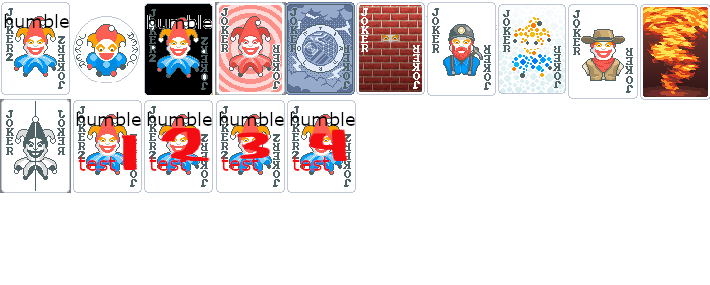
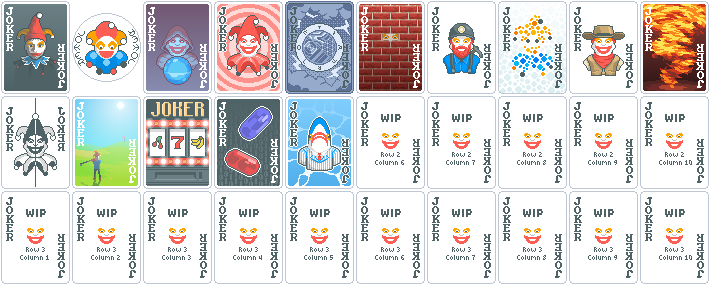
v0.12.0: 4 new jokers, updated spritesheet, updated README

diff --git a/README.md b/README.md
@@ -1,8 +1,23 @@
 # Milan Mod
-A silly balatro mod. Currently has several jokers.
+A silly balatro mod. Currently has 22 jokers.
 
+# How to Install
+- Step 1: Install [Steamodded](https://github.com/Steamodded/smods/wiki)
+- Step 2: Download or clone this repository
+- Step 3: Put the ``milan_mod`` folder into your mods folder. Make sure the repository looks like the following
+```
+-- Mods
+    -- Steamodded
+    -- milan-mod
+        -- assets
+        -- milanmod.json
+        -- milanmod.lua
+```
+
+# Contact & Credits
 For any issues with the mod, please let me know by opening an issue or reaching out to me on [BlueSky](https://bsky.app/profile/cactuzswag.bsky.social)
 
-The good art (aka not placeholder) was made by [Emilia](https://bsky.app/profile/emiliavi.bsky.social)
+The amazing art was made by [Emilia](https://bsky.app/profile/emiliavi.bsky.social)
 
-Additional thanks goes out to [Emma](https://bsky.app/profile/emmakyu.bsky.social) for helping with the code sometimes
+Additional thanks goes out to [Emma](https://bsky.app/profile/emmakyu.bsky.social) for helping with the code
+
